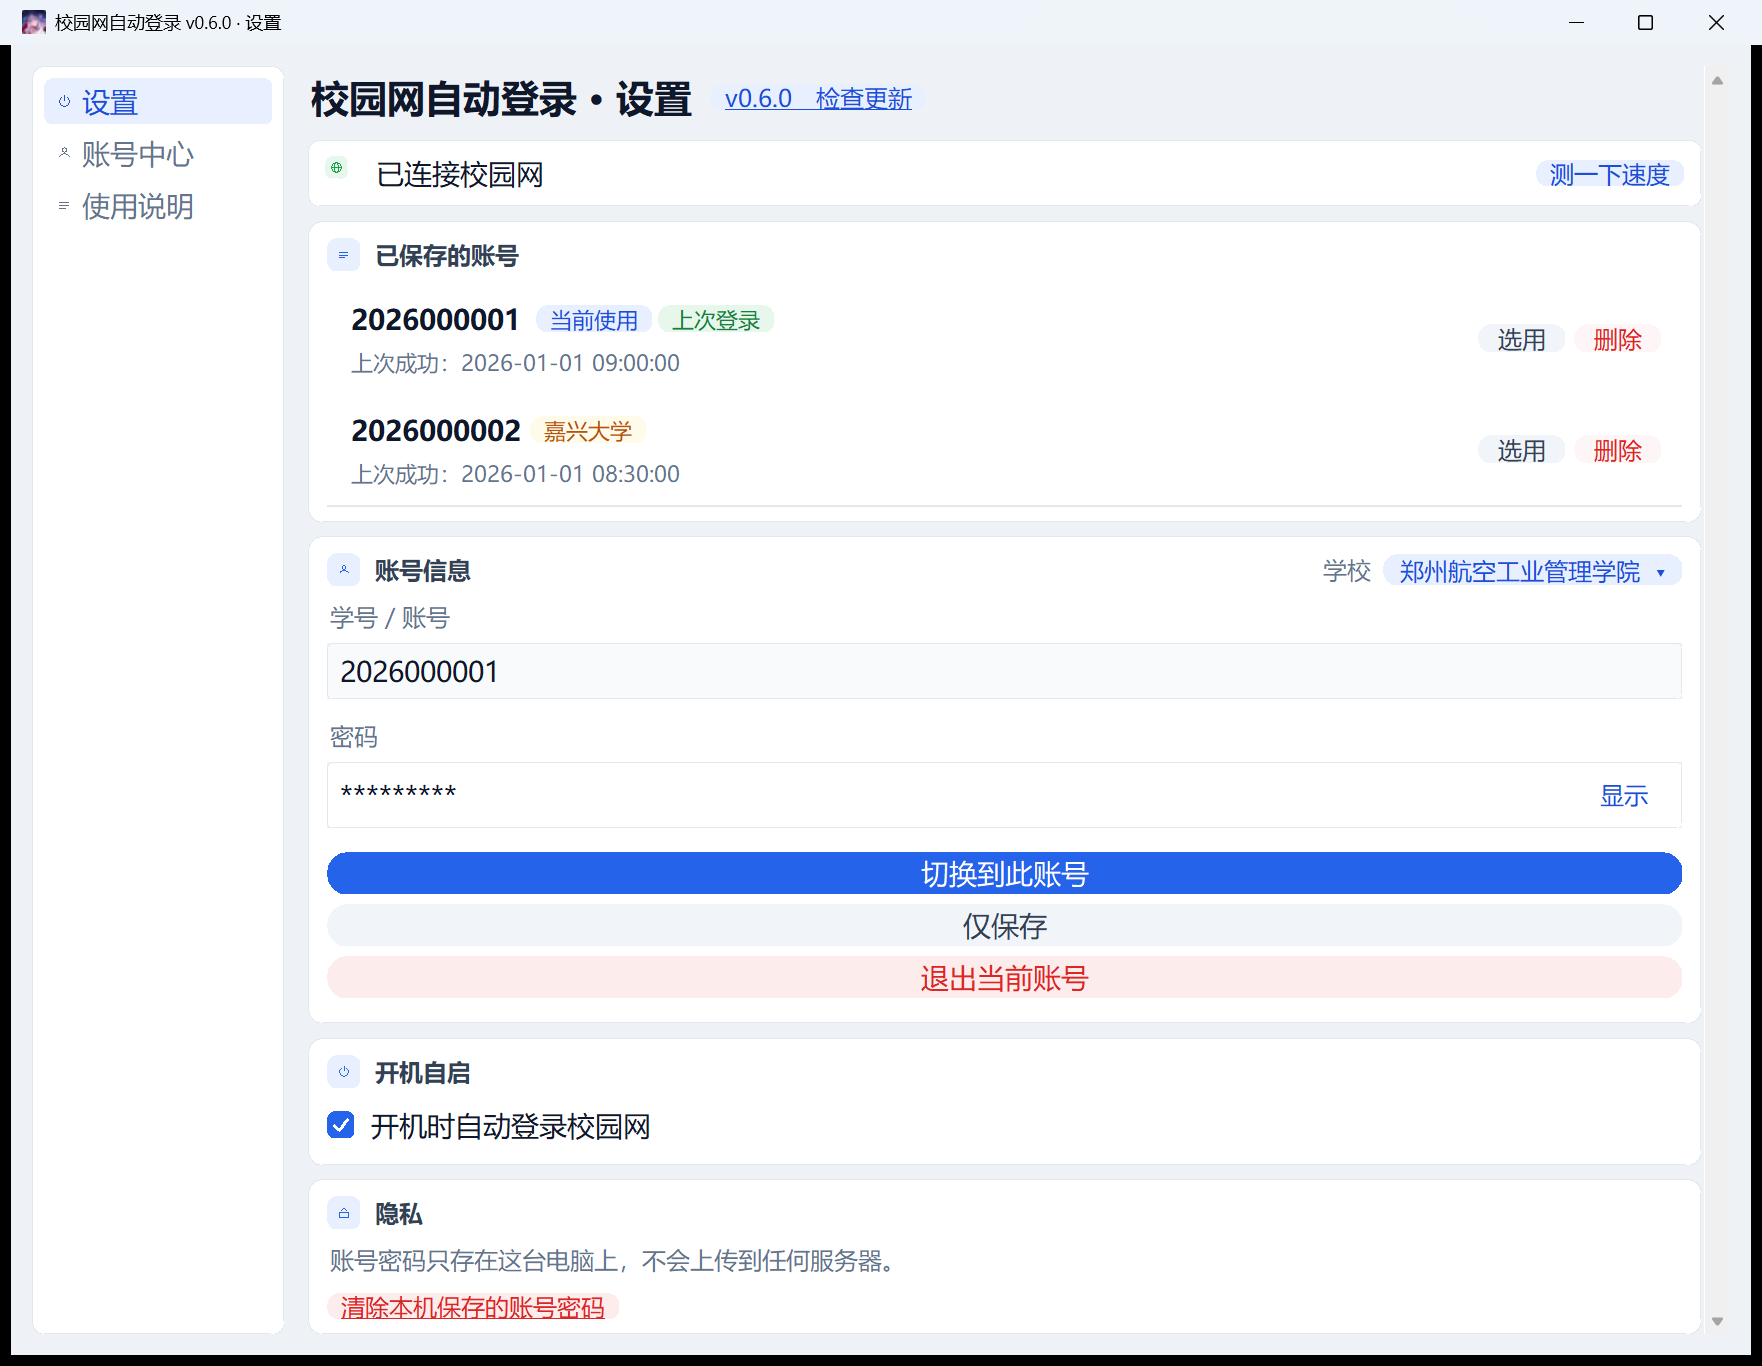
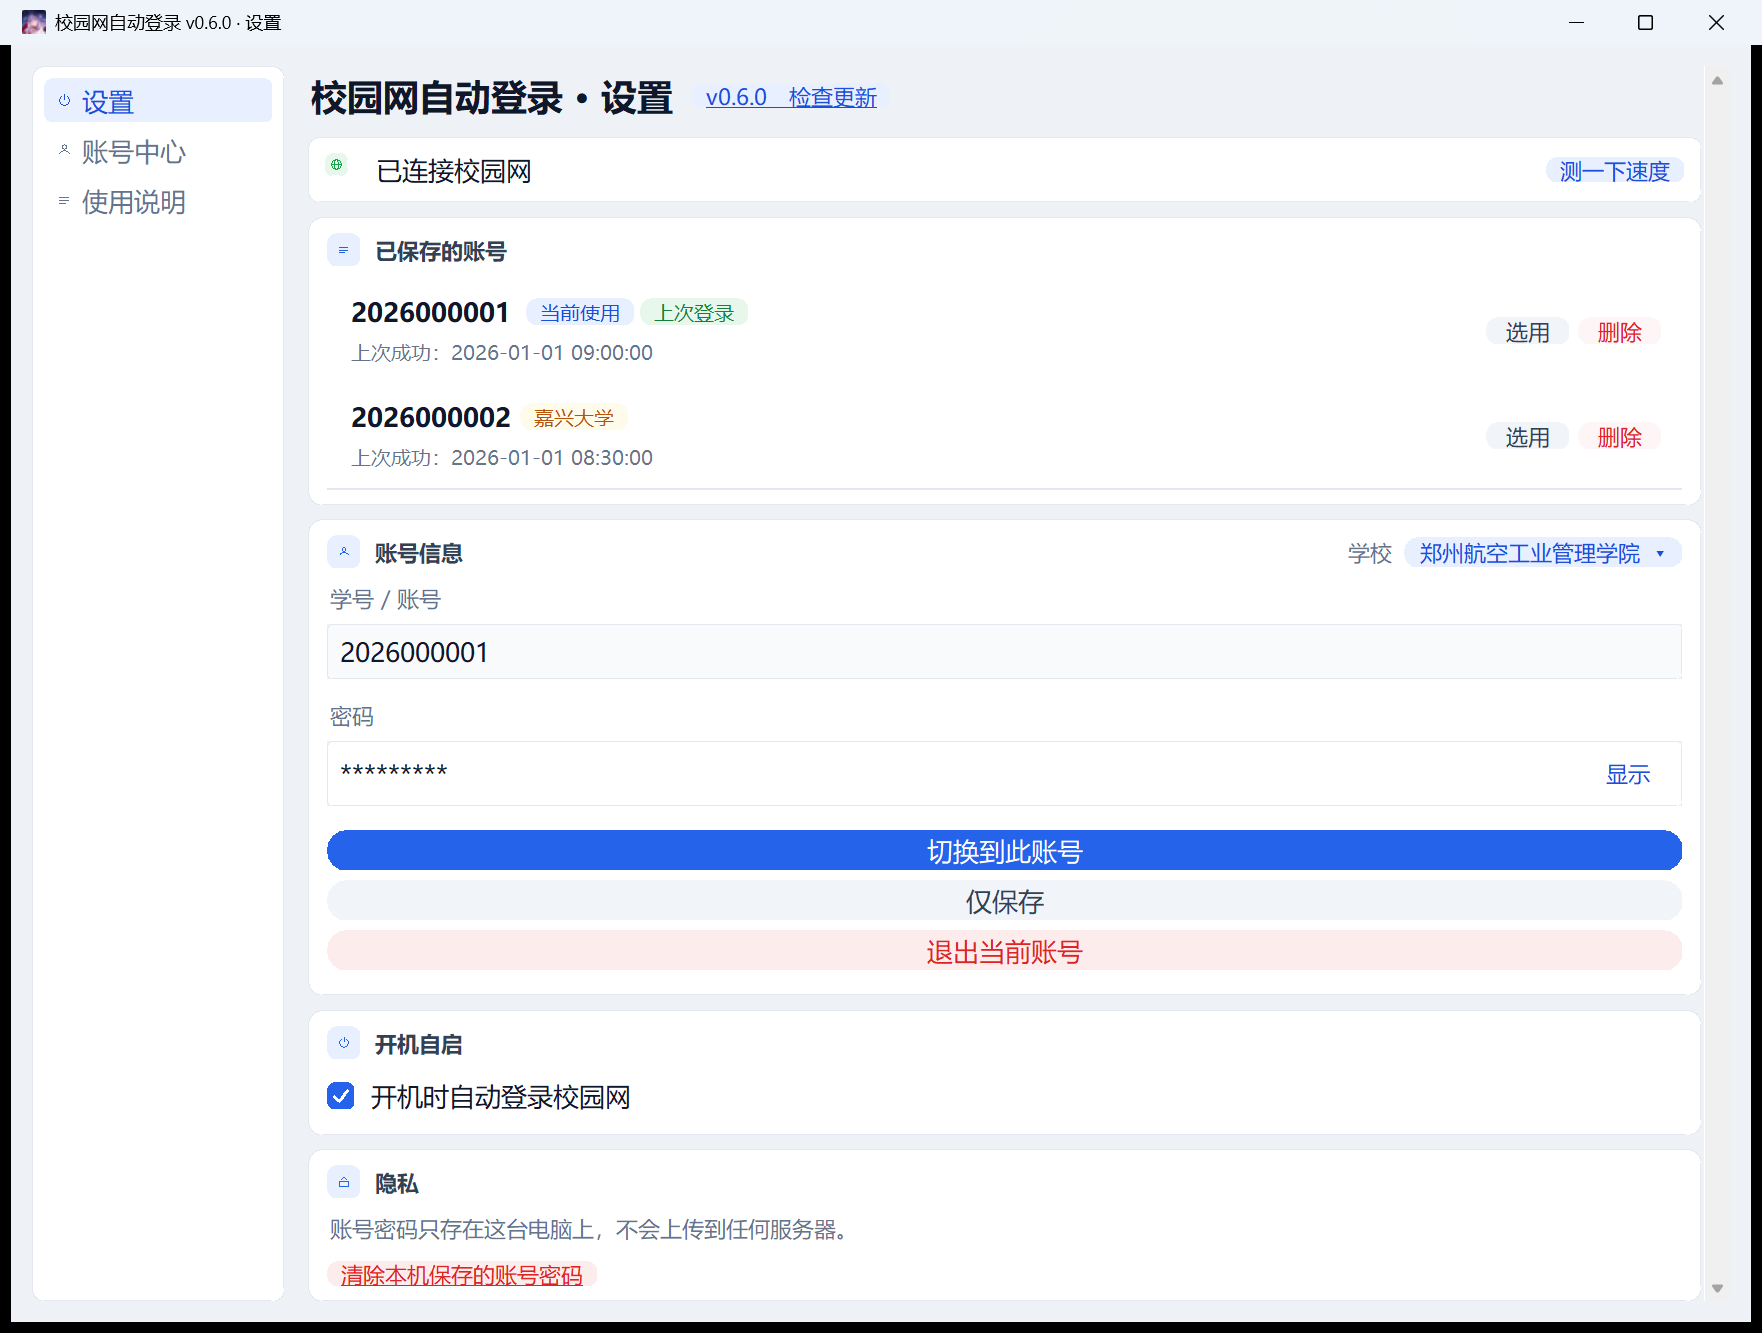
字号整体回一档：14 → 13（用户「大过头了，稍微减小一些」）
用户看到上一版（开了高 DPI 感知、字号 14）之后反馈：
    「这字体有点大过头了，稍微减小一些」

为什么是「回一档」而不是随手减 2 个点：
    改之前的档位是 `12 if sh >= 1400 else 10`，老逻辑在这台机器上给 10。
    第一版把档位整体上调了两档（老值 +2）⇒ 这台机器拿到 14，用户说太大。
    用户嫌 10 小、嫌 14 大 ⇒ 取 **13 = 老值 +1**。
    「稍微」这个词的量化依据就是这个 —— 别再凭感觉加减。

新档位（整体 -1）：
    >= 2000 → 15      (4K)
    >= 1440 → 13      (2K / 16:10 高分屏，本机 1600 走这档)
    >= 1200 → 12
    其余    → 11      (1080p 及以下)

连带重标的两个数（都是量出来的，不是推算的）：
  * `geometry_test.CONTENT_H` 798 → **780**
    （`content_h_probe.py` 实测；`MEASURED_HEIGHTS` 一并按
      `content_h_matrix.py` 重测成 755..1137）
  * 站点截图 1762x1366 → **1762x1333**
    （内容 798 → 780 设计像素，×1.5 = -27px，含标题栏取整 -33；
      宽度跟字号无关，一个字没动）
  * `docs/main.png` 同步刷新

🔴 只改了字号、没动任何间距 —— 所以 `CONTENT_H` 重跑一次探针就够，
   不需要再逐个核对各段高度。

diff --git a/campus_login.py b/campus_login.py
@@ -4319,8 +4319,8 @@ def _init_dpi():
     🔴 为什么还要返回一个缩放因子：
        开了之后 `winfo_screenwidth()` 从「1707」变成「2560」，而界面里
        所有尺寸常量都是**按 96 DPI 设计**的（`OUTER_PAD=14`、`NAV_W=168`、
-       `CONTENT_H=827`…）。不补偿的话整个界面会缩水到 2/3、字挤成一团。
-       乘上这个因子之后「设计像素 → 物理像素」的换算就补回来了：
+       `geometry_test.CONTENT_H=780`…）。不补偿的话整个界面会缩水到 2/3、
+       字挤成一团。乘上这个因子之后「设计像素 → 物理像素」的换算就补回来了：
        界面物理尺寸和以前**一模一样**，只是渲染变清晰。
 
     ⚠ 必须在**建任何 Tk 窗口之前**调用（Tk 只在创建时读一次 DPI）。
@@ -5725,13 +5725,19 @@ def round_button(parent, text, command, font, bg, fg, hover, active, parent_bg,
 def _ui_font(root, tkfont):
     """按屏幕高度挑字号 + 挑一个装得上的中文字体。返回 (字体名, 字号)。
 
-    🔴 2026-10-16 两处改动（用户反馈「字太小了」）：
+    🔴 2026-10-16 改了三轮，把结论和过程都留在这儿（改这个数字前先读完）：
 
       ① **现在拿到的是物理高度**。高 DPI 感知打开之后（见 `_init_dpi`），
          本机 2560x1600 的屏不再被报成「1067」—— 以前那 1067 小于 1400，
          于是永远走小字号档。光是这一条就把 base 从 10 提到了 12。
-      ② **档位整体上调一档**。用户明确说「现在软件里字太小了」，
-         所以 1080p 给 12、2K 给 14（本机 1600 走这档）、4K 给 16。
+      ② 第一版上调到「4K 16 / 2K 14 / 1200p 13 / 1080p 12」，用户反馈
+         「**有点大过头了，稍微减小一些**」⇒ **整体回一档**（就是下面这版）。
+      ③ 于是最终 = **老档位（`12 if sh >= 1400 else 10`）+ 1**：
+         老逻辑在这台机器上给 10，现在给 13。
+
+    ⚠ 「稍微」的量化依据：老逻辑在能装下的屏上给 **12**，第一版给 **14**
+       （+2）。用户嫌 14 大、嫌 10 小 ⇒ 取 **13**（老值 +1）。
+       🔴 别再凭感觉加减 —— 要动就一次动一档，并重跑 `content_h_probe.py`。
 
     ⚠ 字号是**点**（pt），Tk 会自己按 DPI 换算成像素，所以这里**不要**
        再乘 `dp()` —— 乘了就变成「DPI 缩放叠 DPI 缩放」，字会大得离谱。
@@ -5742,13 +5748,13 @@ def _ui_font(root, tkfont):
     except Exception:
         sh = 1080
     if sh >= 2000:          # 4K 级别
-        base = 16
+        base = 15
     elif sh >= 1440:        # 2K / 16:10 高分屏（本机 1600 走这档）
-        base = 14
-    elif sh >= 1200:
         base = 13
-    else:                   # 1080p 及以下
+    elif sh >= 1200:
         base = 12
+    else:                   # 1080p 及以下
+        base = 11
     fam = "Microsoft YaHei UI"
     try:
         if fam not in tkfont.families():

diff --git a/geometry_test.py b/geometry_test.py
@@ -50,21 +50,26 @@ FAILS = []
 # 注意这是**传给 window_geometry 的输入**，0.3.6 起 EXTRA_H 已归零 ——
 # 所以最终窗口高度**就等于**这个值（在没有被屏幕上限收口时）。
 #
-# ⚠ 2026-10-16 重测：827 → 798（加了高 DPI 感知，字号档位从 10 提到 14）。
+# ⚠ 2026-10-16 重测了**两次**（这天字号动了两次）：
+#      827 → **798**（开高 DPI 感知 + 字号档位 10→14）
+#      798 → **780**（用户反馈「字大过头了，稍微减小一些」⇒ 字号 14→13）
 #    🔴 **别拿老值加减推算**，那个 827 是更早的版本标的 —— 同一天做过对照实验：
 #       把字号临时按回 10，量出来是 **699**，不是 827。说明 827 那个基准早就
 #       漂了（那时界面上还没有导航栏、卡片徽标这些东西）。字号的影响方向是对的
-#       （699 → 798，+14%），但**绝对值只能重新量**。
+#       （699 → 798 → 780），但**绝对值只能重新量**。
+#    ⚠ 这两次都是**只改字号**、没动任何间距 —— 所以 `content_h_probe.py` 重跑
+#       一次就够（上面那两个数就是它的输出）。
 #    这个值只当 `window_geometry` 的**样本输入**（见 content_h_probe.py 顶部），
 #    偏一点不影响断言的有效性，但别让它过时到离谱。
-CONTENT_H = 798
+CONTENT_H = 780
 
 # 上面那张表里的全部实测值。**为什么要连它们一起测**：
 # 窗口高度会被屏幕上限收口，所以「窗口不超出屏幕」这条断言其实对任何输入都成立
 # —— 只测一个魔数等于没测到「内容高度会变」这件事。把整个范围都过一遍，
 # 才能保证换个状态（账号变多、警告冒出来）也不会算出超屏的窗口。
-# ⚠ 这些是**手工记录的测量值**（日期见上），改界面后请连同 CONTENT_H 一起重测。
-MEASURED_HEIGHTS = (804, 811, 827, 850, 894, 940, 1162)
+# ⚠ 这些是**手工记录的测量值**（2026-10-16 用 `content_h_matrix.py` 重测），
+#    改界面后请连同 CONTENT_H 一起重测。
+MEASURED_HEIGHTS = (755, 762, 780, 807, 851, 903, 1137)
 
 # 于是装得下的屏幕上，最终窗口高度应该是 CONTENT_H + EXTRA_H(0)
 EXPECTED_H = CONTENT_H
